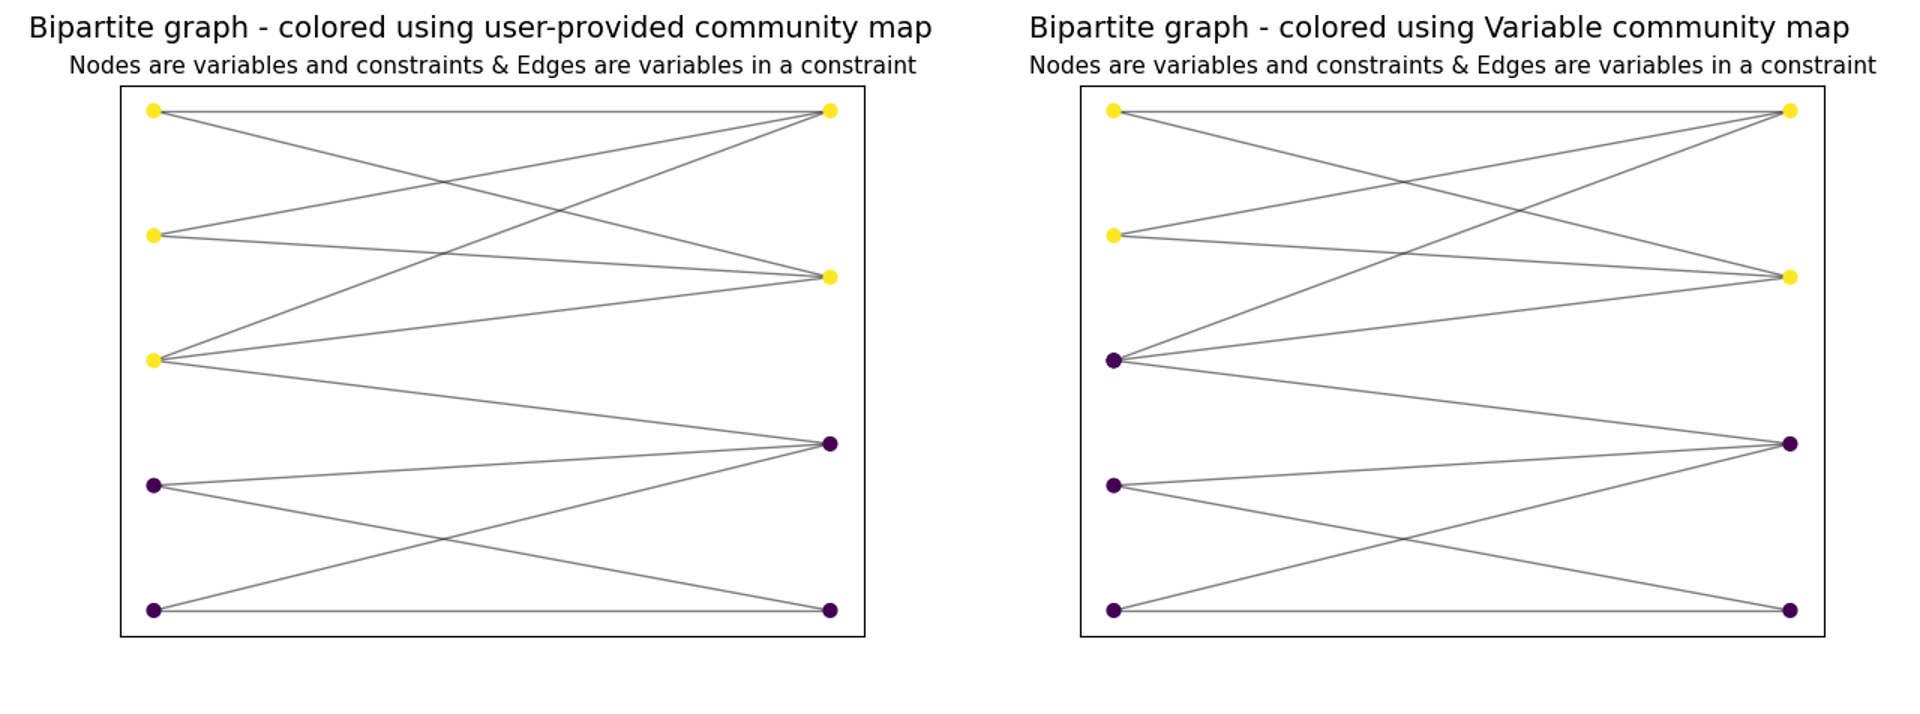
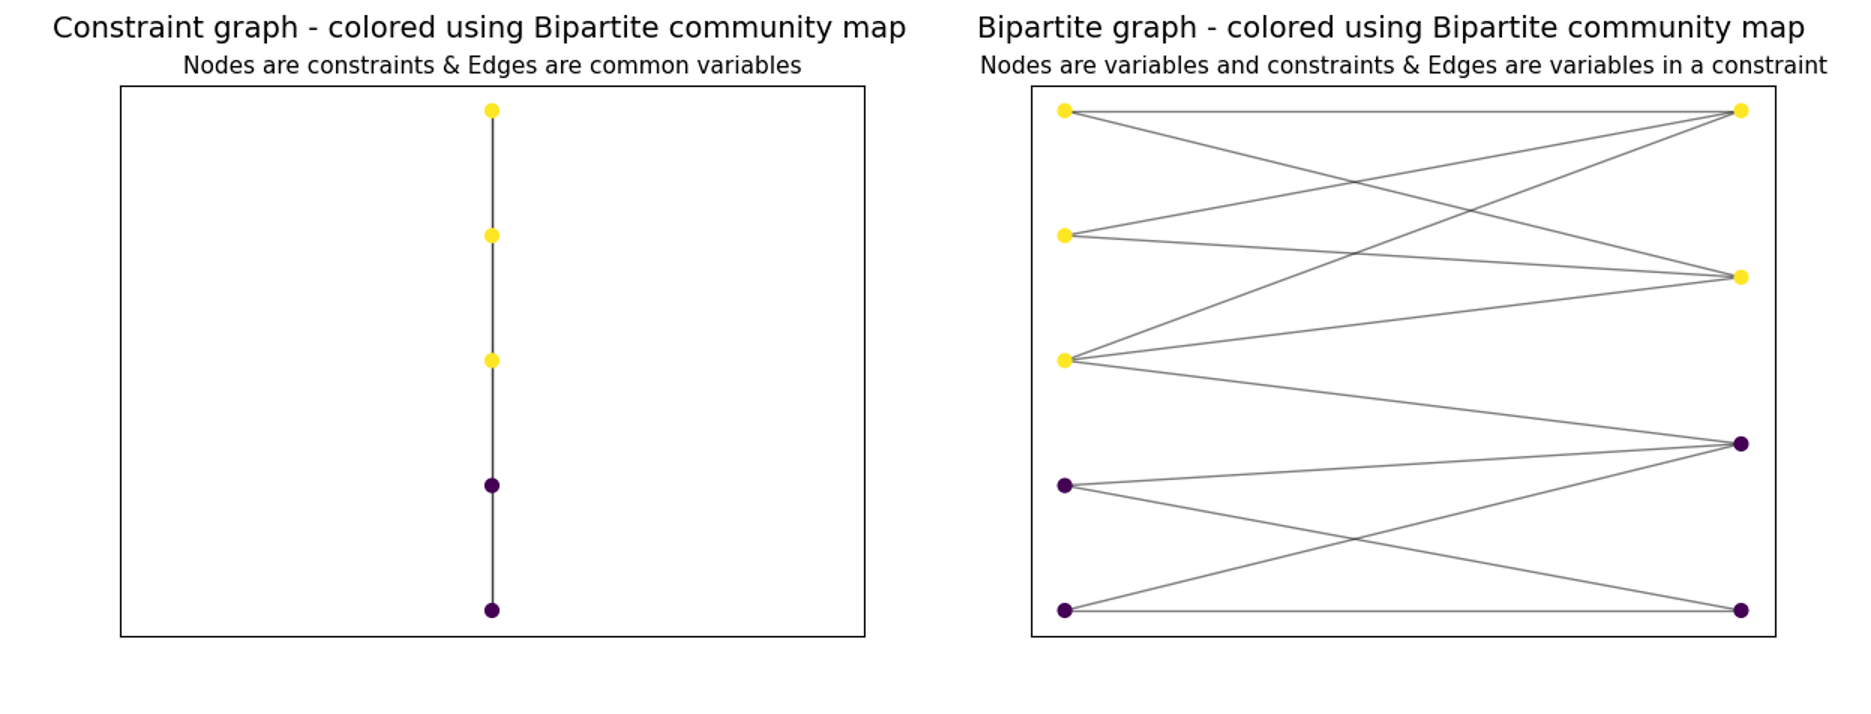
Fixed a bug in event_log, updated rst, changed one of the photos in the rst

diff --git a/pyomo/contrib/community_detection/event_log.py b/pyomo/contrib/community_detection/event_log.py
@@ -60,7 +60,8 @@ def _event_log(model, model_graph, constraint_set, type_of_graph, with_objective
     logger.info("%s nodes found in the graph created from the model" % number_of_nodes)
     logger.info("%s edges found in the graph created from the model" % number_of_edges)
 
-    # Log information on connectivity and density
+    # Log information on connectivity and density (if density is 1 then that means the nodes are connected
+    # to every other node)
     if number_of_nodes > 0:
         if nx.is_connected(model_graph):
             logger.info("The graph created from the model is connected.")
@@ -69,18 +70,21 @@ def _event_log(model, model_graph, constraint_set, type_of_graph, with_objective
             logger.info("The graph created from the model is disconnected.")
             graph_is_connected = False
 
-        if type_of_graph == 'b':
+        if type_of_graph == 'bipartite':
             if graph_is_connected:
                 top_nodes, bottom_nodes = nx.bipartite.sets(model_graph)
+
+                # The purpose of the next few lines is to ensure that (1) top_nodes is not an empty set (as this causes
+                # errors) and that (2) the node sets are properly identified as either constraints or variables
                 if len(top_nodes) == 0:
                     top_nodes, bottom_nodes = bottom_nodes, top_nodes
-                if list(top_nodes)[0] in constraint_set:
-                    constraint_nodes = top_nodes
-                    variable_nodes = bottom_nodes
+                if top_nodes == constraint_set:
+                    constraint_nodes, variable_nodes = top_nodes, bottom_nodes
                 else:
-                    constraint_nodes = bottom_nodes
-                    variable_nodes = top_nodes
+                    constraint_nodes, variable_nodes = bottom_nodes, top_nodes
             else:
+                # If the graph is not connected then we must construct the constraint node set
+                # and variable node set manually
                 constraint_nodes = {node for node in model_graph.nodes() if node in constraint_set}
                 variable_nodes = set(model_graph) - constraint_nodes
 

diff --git a/pyomo/contrib/community_detection/detection.py b/pyomo/contrib/community_detection/detection.py
@@ -198,8 +198,7 @@ class CommunityMap(object):
     The CommunityMap object acts as a Python dictionary, mapping integer keys to tuples containing two lists
     (which contain the components in the given community) - a constraint list and variable list.
 
-    Methods
-    -------
+    Methods:
     generate_structured_model
     visualize_model_graph
     """

diff --git a/doc/OnlineDocs/contributed_packages/community.rst b/doc/OnlineDocs/contributed_packages/community.rst
@@ -139,15 +139,14 @@ actual dictionary that maps integers to the communities within the model. It is 
 most interested in the actual dictionary itself, so dict-like usage is permitted.
 
 If a user wishes to modify the actual dictionary (the community_map attribute of the CommunityMap object),
-creating a deep copy is highly recommended (or else any destructive modifications could have
-unintended consequences):
+creating a deep copy (``copy.deepcopy(community_map_object.community_map)``) (is highly recommended (or else any
+destructive modifications could have unintended consequences).
+
+Now, let's take a closer look at usage examples for the community map object generated by 'detect_communities':
 
 .. doctest::
 
-    >>> community_map_to_modify = copy.deepcopy(community_map_object.community_map)
-
-    Now, let's print the bipartite community map generated by 'detect_communities' and take a look at the output
-    >>> print(detect_communities(model, type_of_community_map='bipartite'))
+    >>> print(community_map_object)
     {0: (['c1', 'c2'], ['x1', 'x2']),
      1: (['c3', 'c4', 'c5'], ['x3', 'x4'])}
 
@@ -166,69 +165,169 @@ unintended consequences):
          [<pyomo.core.base.var.SimpleVar object at 0x0000028DA74BB4A8>,
           <pyomo.core.base.var.SimpleVar object at 0x0000028DA74BB518>])}
 
-If we want a visualization of the communities within the Pyomo model, we can use ``visualize_model_graph`` to do
-so. Let's take a look at how this can be done in the following example:
+``generate_structured_model`` Method
+    It may be useful to create a new model based on the communities found in the model - we can use the
+    ``generate_structured_model`` method of the CommunityMap class to do this. Calling this method on a CommunityMap object
+    returns a new model made up of blocks that correspond to each of the communities found in the original model. Let's
+    take a look at the example below:
 
-.. doctest::
+    .. doctest::
+        Use the CommunityMap object made from the first code example
+        >>> structured_model = community_map_object.generate_structured_model()
+        >>> structured_model.pprint()
+        2 Set Declarations
+            b_index : Size=1, Index=None, Ordered=Insertion
+                Key  : Dimen : Domain : Size : Members
+                None :     1 :    Any :    2 : {0, 1}
+            equality_constraint_list_index : Size=1, Index=None, Ordered=Insertion
+                Key  : Dimen : Domain : Size : Members
+                None :     1 :    Any :    1 :    {1,}
 
-    Create a CommunityMap object (so we can demonstrate the visualize_model_graph method)
-    >>> community_map_object = cmo = detect_communities(model, type_of_community_map='bipartite', random_seed=seed)
+        1 Var Declarations
+            x2 : Size=1, Index=None
+                Key  : Lower : Value : Upper : Fixed : Stale : Domain
+                None :  None :  None :  None : False :  True :  Reals
 
-    Obtain a matplotlib figure (left_figure) and the graph layout (pos)
-    >>> left_figure, pos = cmo.visualize_model_graph(type_of_graph='bipartite')
-    Calling 'plt.show()' displays the figure (shown below as the figure on the left)
-    >>> plt.show()
+        1 Constraint Declarations
+            equality_constraint_list : Equality Constraints for the different forms of a given variable
+                Size=1, Index=equality_constraint_list_index, Active=True
+                Key : Lower : Body         : Upper : Active
+                  1 :   0.0 : b[0].x2 - x2 :   0.0 :   True
 
-    Note that the pos argument returned above is used in the following function call,
-    which can be used to ensure identical graph layouts:
+        1 Block Declarations
+            b : Size=2, Index=b_index, Active=True
+                b[0] : Active=True
+                    2 Var Declarations
+                        x1 : Size=1, Index=None
+                            Key  : Lower : Value : Upper : Fixed : Stale : Domain
+                            None :  None :  None :  None : False :  True :  Reals
+                        x2 : Size=1, Index=None
+                            Key  : Lower : Value : Upper : Fixed : Stale : Domain
+                            None :  None :  None :  None : False :  True :  Reals
 
-    >>> right_figure, _ = cmo.visualize_model_graph(type_of_graph='variable', pos=pos)
-    >>> plt.show()
+                    2 Constraint Declarations
+                        c1 : Size=1, Index=None, Active=True
+                            Key  : Lower : Body              : Upper : Active
+                            None :  -Inf : b[0].x1 + b[0].x2 :   0.0 :   True
+                        c2 : Size=1, Index=None, Active=True
+                            Key  : Lower : Body                : Upper : Active
+                            None :  -Inf : b[0].x1 - 3*b[0].x2 :   0.0 :   True
 
-    An example of the two separate graphs created for these two function calls is shown below:
-.. image:: communities_decode_1.png
-  :width: 100%
-  :alt: Graphical representation of the communities in the model 'decode_model_1' for two different types of graphs
+                    4 Declarations: x1 x2 c1 c2
+                b[1] : Active=True
+                    2 Var Declarations
+                        x3 : Size=1, Index=None
+                            Key  : Lower : Value : Upper : Fixed : Stale : Domain
+                            None :  None :  None :  None : False :  True :  Reals
+                        x4 : Size=1, Index=None
+                            Key  : Lower : Value : Upper : Fixed : Stale : Domain
+                            None :  None :  None :  None : False :  True :  Reals
 
-These graph drawings very clearly demonstrate the communities within this model. We can see how there is only one edge
-between the two communities and many more edges within each community. This is an ideal situation for breaking a
-model into separate communities since there is little connectivity between the communities. Also, note that we can
-choose different graph types (such as a variable node graph, constraint node graph, or bipartite graph).
+                    3 Constraint Declarations
+                        c3 : Size=1, Index=None, Active=True
+                            Key  : Lower : Body                        : Upper : Active
+                            None :   0.0 : x2 + b[1].x3 + 4*b[1].x4**2 :   0.0 :   True
+                        c4 : Size=1, Index=None, Active=True
+                            Key  : Lower : Body              : Upper : Active
+                            None :  -Inf : b[1].x3 + b[1].x4 :   0.0 :   True
+                        c5 : Size=1, Index=None, Active=True
+                            Key  : Lower : Body                         : Upper : Active
+                            None :   0.0 : b[1].x3**2 + b[1].x4**2 - 10 :   0.0 :   True
 
-Let's try a more complicated model, taken from `Duran & Grossmann, 1986`_:
+                    5 Declarations: x3 x4 c3 c4 c5
 
-.. _Duran & Grossmann, 1986: https://dx.doi.org/10.1007/BF02592064
+        5 Declarations: b_index b x2 equality_constraint_list_index equality_constraint_list
 
-.. doctest::
+    We see that there is an equality constraint list (`equality_constraint_list`) that has been created. This is due to
+    the fact that the ``detect_communities`` function can return a community map that has Pyomo components (variables,
+    constraints, or objectives) in more than one community, and thus, an equality_constraint_list is created to ensure that
+    the new model still corresponds to the original model. This is explained in more detail below.
 
-    Define the model
-    >>> model = EightProcessFlowsheet()
+    Consider the case where community detection is done on a constraint node graph - this would result in communities
+    that are made up of the corresponding constraints as well as all the variables that occur in the given constraints.
+    Thus, it is possible for certain Pyomo components to be in multiple communities (and a similar argument exists
+    for community detection done on a variable node graph). As a result, our structured model (the model returned by
+    the ``generate_structured_model`` method) may need to have several "copies" of a certain component. For example,
+    a variable `original_model.x1` that exists in the original model may have corresponding forms
+    `structured_model.b[0].x1`, `structured_model.b[0].x1`, `structured_model.x1`. In order for these components to
+    meaningfully correspond to their counterparts in the original model, they must be bounded by equality constraints.
+    Thus, we use an `equality_constraint_list` to bind different forms of a component from the original model.
 
-    Now, we follow the same steps as we did in the example above (see above for explanations)
-    >>> community_map_object = cmo = detect_communities(model, type_of_community_map='constraint', random_seed=seed)
-    >>> left_fig, pos = cmo.visualize_model_graph(type_of_graph='variable')
-    >>> plt.show()
+    The last point to make about this method is that variables will be created outside of blocks if (1) an objective
+    is not inside a block (for example if the community detection is done `with_objective=False`) or if (2) an
+    objective/constraint contains a variable that is not in the same block as the given objective/constraint.
 
-    As we did before, we will use the returned 'pos' to create a consistent graph layout
-    >>> community_map_object = cmo = detect_communities(model, type_of_community_map='bipartite')
-    >>> middle_fig, _ = cmo.visualize_model_graph(type_of_graph='variable', pos=pos)
-    >>> plt.show()
+``visualize_model_graph`` Method
+    If we want a visualization of the communities within the Pyomo model, we can use ``visualize_model_graph`` to do
+    so. Let's take a look at how this can be done in the following example:
 
-    >>> community_map_object = cmo = detect_communities(model, type_of_community_map='variable')
-    >>> right_fig, _ = cmo.visualize_model_graph(type_of_graph='variable', pos=pos)
-    >>> plt.show()
+    .. doctest::
 
-    We can see an example for the three separate graphs created by these three function calls
-    (drawn with 'plt.show()') below:
-.. image:: communities_8pp.png
-   :width: 100%
-   :alt: Graphical representation of the communities in the model 'decode_model_1' for slightly different function calls
+        Create a CommunityMap object (so we can demonstrate the visualize_model_graph method)
+        >>> community_map_object = cmo = detect_communities(model, type_of_community_map='bipartite', random_seed=seed)
 
-The three graphs above are all variable graphs - which means the nodes represent variables in the model, and the edges
-represent constraint equations. The coloring differs because the three graphs rely on community maps that were
-created based on a constraint node graph, a bipartite graph, and a variable node graph (from left to right). For
-example, the community map that was generated from a constraint node graph (``type_of_community_map='constraint'``)
-resulted in three communities (as seen by the purple, yellow, and blue nodes).
+        Obtain a matplotlib figure (left_figure) and the graph layout (pos)
+        >>> left_figure, pos = cmo.visualize_model_graph(type_of_graph='constraint')
+        Calling 'plt.show()' displays the figure (shown below as the figure on the left)
+        >>> plt.show()
+
+        Note that the pos argument returned above is used in the following function call,
+        which can be used to ensure identical graph layouts:
+
+        >>> right_figure, _ = cmo.visualize_model_graph(type_of_graph='bipartite', pos=pos)
+        >>> plt.show()
+
+        An example of the two separate graphs created for these two function calls is shown below:
+    .. image:: communities_decode_1.png
+      :width: 100%
+      :alt: Graphical representation of the communities in the model 'decode_model_1' for two different types of graphs
+
+    These graph drawings very clearly demonstrate the communities within this model. The constraint graph (which is colored
+    using the bipartite community map) shows a very simple illustration - one node for each constraint, with only one edge
+    connecting the two communities (which represents the variable `m.x2` common to `m.c2` and `m.c3` in separate
+    communities)
+    The bipartite graph is slightly more complicated and we can see again how there is only one edge between the two
+    communities and more edges within each community. This is an ideal situation for breaking a
+    model into separate communities since there is little connectivity between the communities. Also, note that we can
+    choose different graph types (such as a variable node graph, constraint node graph, or bipartite graph) for a given
+    community map.
+
+    Let's try a more complicated model (taken from `Duran & Grossmann, 1986`_) - this example will demonstrate how the same
+    graph can be illustrated using different community maps (in the previous example we illustrated different graphs with a
+    single community map):
+
+    .. _Duran & Grossmann, 1986: https://dx.doi.org/10.1007/BF02592064
+
+    .. doctest::
+
+        Define the model
+        >>> model = EightProcessFlowsheet()
+
+        Now, we follow steps similar to the example above (see above for explanations)
+        >>> community_map_object = cmo = detect_communities(model, type_of_community_map='constraint', random_seed=seed)
+        >>> left_fig, pos = cmo.visualize_model_graph(type_of_graph='variable')
+        >>> plt.show()
+
+        As we did before, we will use the returned 'pos' to create a consistent graph layout
+        >>> community_map_object = cmo = detect_communities(model, type_of_community_map='bipartite')
+        >>> middle_fig, _ = cmo.visualize_model_graph(type_of_graph='variable', pos=pos)
+        >>> plt.show()
+
+        >>> community_map_object = cmo = detect_communities(model, type_of_community_map='variable')
+        >>> right_fig, _ = cmo.visualize_model_graph(type_of_graph='variable', pos=pos)
+        >>> plt.show()
+
+        We can see an example for the three separate graphs created by these three function calls
+        (drawn with 'plt.show()') below:
+    .. image:: communities_8pp.png
+       :width: 100%
+       :alt: Graphical representation of the communities in the model 'decode_model_1' for slightly different function calls
+
+    The three graphs above are all variable graphs - which means the nodes represent variables in the model, and the edges
+    represent constraint equations. The coloring differs because the three graphs rely on community maps that were
+    created based on a constraint node graph, a bipartite graph, and a variable node graph (from left to right). For
+    example, the community map that was generated from a constraint node graph (``type_of_community_map='constraint'``)
+    resulted in three communities (as seen by the purple, yellow, and blue nodes).
 
 For our final example, we will use ``generate_model_graph`` - this function can be used to create a NetworkX
 graph for a Pyomo model. Here, we will create a NetworkX graph from the model in our first example and
